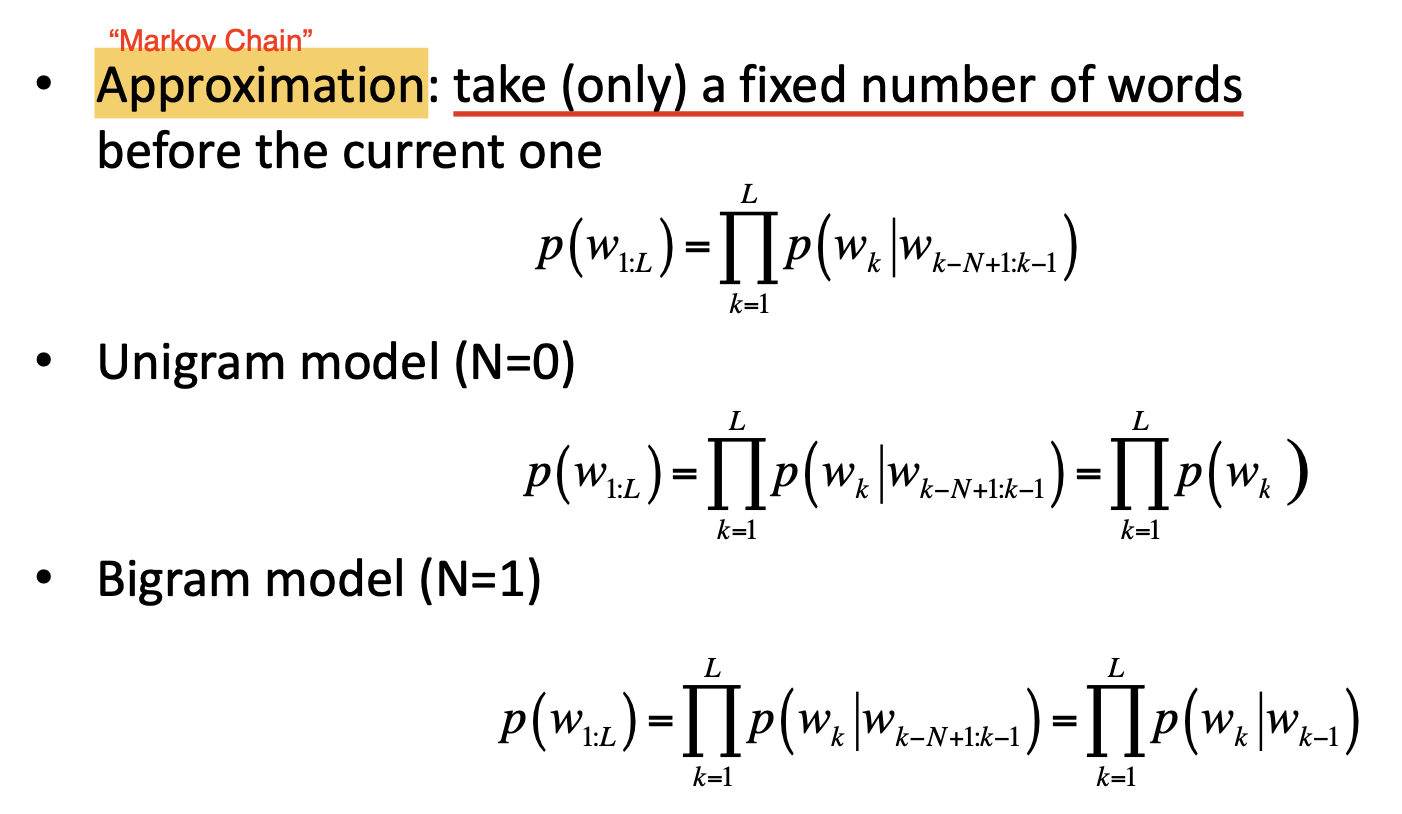
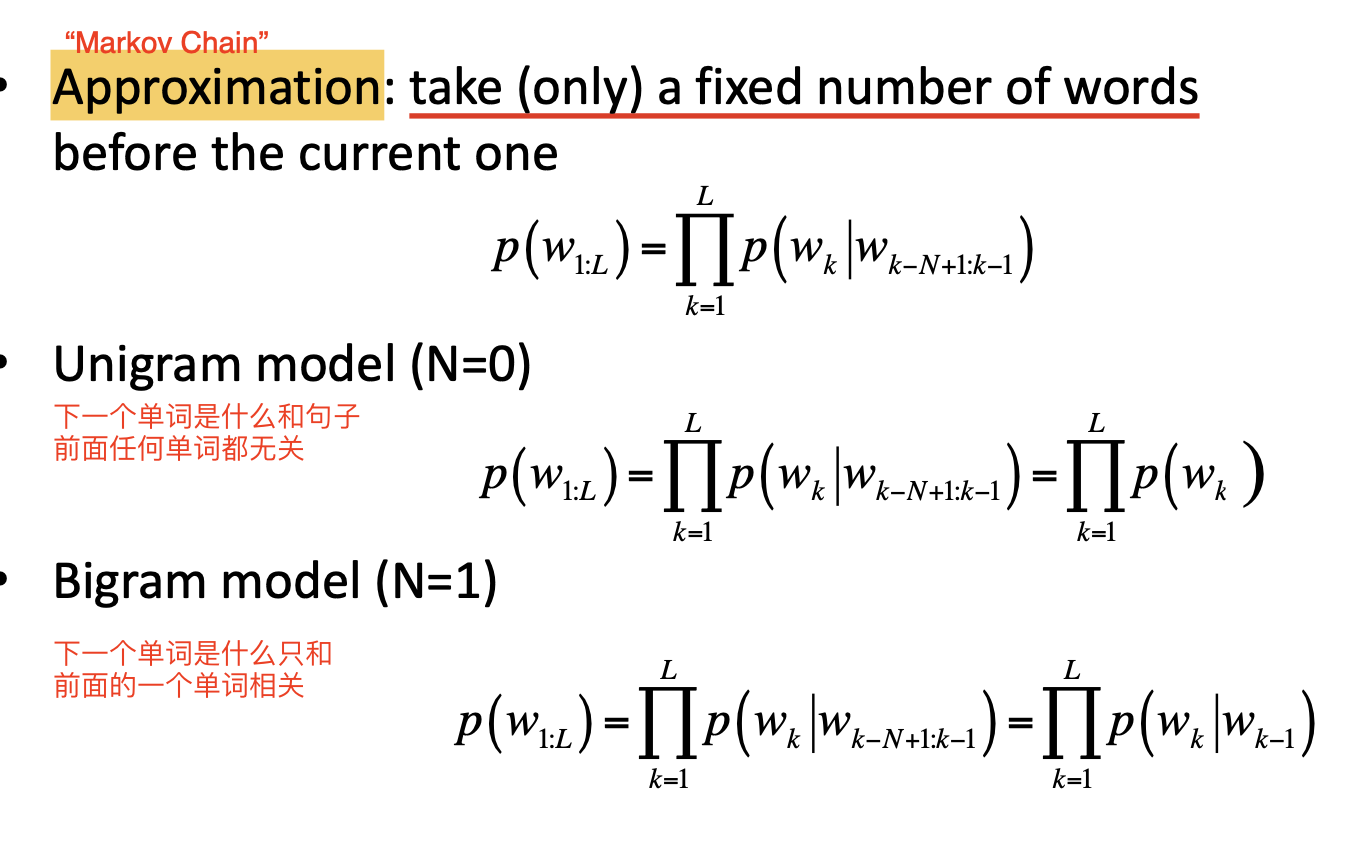
chore: updated `20221009154656.png`

diff --git a/_posts/2022-10-08-Ch1 COMP34711.md b/_posts/2022-10-08-Ch1 COMP34711.md
@@ -1,0 +1,213 @@
+---
+layout:     post
+title:      自然语言处理:分词, 语言模型和语言表示
+subtitle:   Tokenisation, Language Models and Representations
+date:       2022-10-08
+author:     R1NG
+header-img: img/post-bg-comp37111.jpg
+description: 本章讨论分词, 主流的语言模型和语言表示问题.
+catalog: true
+tags:
+    - 课程笔记
+    - 自然语言处理
+---
+
+# 分词, 语言模型和语言表示
+
+本章将讨论分词问题, 介绍数种主流的语言模型并讨论语言表示问题.
+
+## 1. 分词
+
+**分词** (`Tokenisation`) 是文本数据进入到模型进行计算前必须经过的步骤, 其主要目标是将文字输入 **拆分为最基本的组成元素**: 字词 (`Tokens`). 
+
+最简单的分词策略是将文本数据 **基于空格或其他标点符号** 进行拆分, 但这样的方法一般情况下都是不准确的. 分词策略的选择和构造取决于 **被拆分的文本数据所属的语言类型** 和 **文本数据本身所包含的内容主题**.
+
+举例而言: 中文 **不使用空格分离字词**, 而日文数据中一句话里可能夹杂平假名, 片假名, 汉字和罗马字符; 以阿拉伯语和希伯来语为代表的一些语言遵循 **自右向左** 的阅读顺序, 但阿拉伯数字的阅读顺序却又始终是 **自左向右**.
+
+![20221008212157](https://cdn.jsdelivr.net/gh/KirisameR/KirisameR.github.io/img/blogpost_images/20221008212157.png)
+
+![20221008212206](https://cdn.jsdelivr.net/gh/KirisameR/KirisameR.github.io/img/blogpost_images/20221008212206.png)
+
+同时, 一些 **具有特殊含义的词** 往往包含连接号 `-` 或空格 ` `, 此时若使用最基本的分词策略就会出现明显的问题.
+
+![20221008212215](https://cdn.jsdelivr.net/gh/KirisameR/KirisameR.github.io/img/blogpost_images/20221008212215.png)
+
+此外, 如何进行分词在一些情况下还是 **主观的**, 并无明确的标准. 如下图的例子所示, 若要对 `900g/21lb` 进行分词, 就可能出现多种不同的分法, 而这数种不同的分法都有一定的合理性.
+
+![20221008212253](https://cdn.jsdelivr.net/gh/KirisameR/KirisameR.github.io/img/blogpost_images/20221008212253.png)
+
+因此, 分词在实际应用中是一个非常复杂的问题. 一般地, 分词包含下列的四个步骤:
+
+![20221008212756](https://cdn.jsdelivr.net/gh/KirisameR/KirisameR.github.io/img/blogpost_images/20221008212756.png)
+
+下面以英文为例简要解释这四个步骤. 
+
+### 1.1 初始分词
+
+在英语中, 绝大多数的字词都被 **空格和标点符号** (`Word and Punctuation`) 所 **划分和界定** (`delimit`). 因此, 可通过下列的两个步骤划分出 **字词的粗略边界**:
+
+![20221008213427](https://cdn.jsdelivr.net/gh/KirisameR/KirisameR.github.io/img/blogpost_images/20221008213427.png)
+
+这一步可以生成相对不错的单词划分, 但它可能存在 **过分割 `Over-Segmentation`** 和 **欠分割 `Under-Segmentation`** 问题:
+
+![20221008213616](https://cdn.jsdelivr.net/gh/KirisameR/KirisameR.github.io/img/blogpost_images/20221008213616.png)
+
+因此我们需要执行后续的三个步骤以对初始分划的结果进行 **细化或修正**. 
+
+### 1.2 处理缩写和省略撇号
+
+第二步的主要工作是:
+
+1. 处理 **缩写** (`Abbreviation`) 导致的潜在分划错误:
+   
+    一般地, 在 **缩写** 的内部出现的句号 (`period`) 应该被认为 **属于该缩写的一部分**, 因此需要和这个缩写一起被划分为 **一个单独的字词**.
+
+    ![20221008214024](https://cdn.jsdelivr.net/gh/KirisameR/KirisameR.github.io/img/blogpost_images/20221008214024.png)
+
+   一般地, 连接在单词末尾的句号表示 **该句子的末尾**, 因此需要被划分为一个单独的字词. 但若某个句子的结尾是一个缩写词, 此时末尾的句号就同时包含了 **表示缩写** 和 **表示句子结尾** 的双重含义. 在处理一些特定语料时, 可能需要 **强行将这个句号从缩写字词中拆分** 或 **强行将这个句号包含到缩写字词中**, 因此需要这一步检查. 
+
+   此外, 包括 **逗号** (`Comma`), **分号** (`semi-column`), **引号** (`quotation mark`) 等标点符号都应该被视为 **单独的字词**.
+
+2. 处理省略引号因歧义性导致的潜在分划错误:
+
+    引号存在 **歧义性**, 因其根据语境不同可以解释为 **引用标记** (`Quotation Marks`), **所属格符号** (`Genitive Marker`) 和 **后附着语素/重读词后词** (`Enclitic`):
+
+    ![20221008214857](https://cdn.jsdelivr.net/gh/KirisameR/KirisameR.github.io/img/blogpost_images/20221008214857.png)
+
+    ![20221008214906](https://cdn.jsdelivr.net/gh/KirisameR/KirisameR.github.io/img/blogpost_images/20221008214906.png)
+
+### 1.3 处理连接号
+
+连接号的含义也存在 **歧义性**: 它可能在被分行的文本材料中表示句子在上下两行之间的连接, 也可能是某个 **合成词** (`Compound Word`) 中不可分割的一部分. 因此我们需要对分词结果进行进一步检测以修正由于连接号的歧义性所导致的潜在分划错误.
+
+![20221008215222](https://cdn.jsdelivr.net/gh/KirisameR/KirisameR.github.io/img/blogpost_images/20221008215222.png)
+
+![20221008215342](https://cdn.jsdelivr.net/gh/KirisameR/KirisameR.github.io/img/blogpost_images/20221008215342.png)
+
+### 1.4 处理其他难以归类的特殊表示
+
+最后, 我们需要处理文本数据中可能存在的, **难以归类的特殊表示**, 如下图所示:
+
+![20221008215430](https://cdn.jsdelivr.net/gh/KirisameR/KirisameR.github.io/img/blogpost_images/20221008215430.png)
+
+需要处理哪些特殊表示, 数字和日期等特殊表示应该如何分划, 都需要基于具体的文本数据而定.
+
+### 1.5 对分词和相关问题的总结与讨论
+
+最后总结: 在分词这一步中, 实际上 **不存在唯一正确的规则**, 任何与对应的自然语言处理系统 **一致** 的分词规则就是理论上合适的规则.
+
+需要注意: 分词遵从的 **基本原则** 是: **从完全未被划分的初始语料出发**, 基于 **一系列规定好的划分规则** 将语料一步步地划分, 从而 **避免过划分的问题出现**. 
+
+分词是 **文本预处理** (`Text pre-processing`) 的重要一步. 文本预处理还包括 **文本文件级别的预处理** 和 **词汇级别的预处理**, 分词是承上启下的一步.
+
+![20221008220227](https://cdn.jsdelivr.net/gh/KirisameR/KirisameR.github.io/img/blogpost_images/20221008220227.png)
+
+此外, **大小写折叠** (`Case Folding`) 也是一个受 **歧义性困扰** 的问题. 由于有大量的 **著名名词** (`Popular Noun`) 是由首字母大写的普通名词拼合而成的, 因此如果将所有单词全部转成小写就会导致信息丢失. 
+
+![20221008220815](https://cdn.jsdelivr.net/gh/KirisameR/KirisameR.github.io/img/blogpost_images/20221008220815.png)
+
+一种方法是: **仅将句子开头的首字母改为小写形式**. 这也被称为 `truecasing`. 更合适的解决方案还是基于机器学习构造自动大小写折叠模型.
+
+![20221008220758](https://cdn.jsdelivr.net/gh/KirisameR/KirisameR.github.io/img/blogpost_images/20221008220758.png)
+
+## 2. 语言模型和语言表示
+
+我们接下来介绍数种主流的语言模型和语言表示.
+
+考虑一个最简单的语言相关问题: **完形填空**. 从未接触过文章中所描述内容的学生也能正确填出留空的单词, 其背后是基于 **足够多的语料阅读** 所积累的 **语感**. 相应地, 比起完全形式化的, 基于 **语法** 所构造的复杂语言模型, 我们基于从现实中收集的大量语料数据为语言进行 **统计学意义上的建模**. 我们用 **概率数值** 表示给定语料 **可能在现实中出现** 的概率, 自然而然, 更 **符合人类理解常规**, **运用更自然** 的语料被分配的概率值就更大. 
+
+形式上说, 所谓的 **语言模型** (`Language Model`) 就是这样一个以 **任意语料** 为输入, 以某个解释为 **概率** 的, 位于 $0$ 到 $1$ 之间的数值为输出的 **函数**.
+
+![20221008223648](https://cdn.jsdelivr.net/gh/KirisameR/KirisameR.github.io/img/blogpost_images/20221008223648.png)
+
+所谓 **模型**, 就是对某个现实事物的 **抽象**, **简化** 的表述. 对 **语言模型** 而言, 自然就存在这个问题: **应该如何表示语料数据**?
+
+### 2.1 词袋表示 (`BoW Representation`)
+
+词袋表示 (`BoW Representation`) 是最简单的语言表示方法, 它将含有顺序和符号的语料简化为一系列字词, 将其装进 **包含重复元素的集合**: “词袋” (`Bag of words`) 中. 
+
+![20221008224311](https://cdn.jsdelivr.net/gh/KirisameR/KirisameR.github.io/img/blogpost_images/20221008224311.png)
+
+词袋模型非常简单, 以至于语料在转换为词袋表示的过程中会不可避免地损失信息, 如 **单词之间的顺序会完全丢失**, **转换后无法区分单词的相对重要性** 等, 词袋模型也 **不适用于所有的语言**, 但从计算的角度看它非常 **高效**.
+
+![20221008224535](https://cdn.jsdelivr.net/gh/KirisameR/KirisameR.github.io/img/blogpost_images/20221008224535.png)
+
+一般地, 在将语料转换为词袋时我们需要定义 **停用词** (`Stop Words`) 以 **提升文本特征的质量**, 停用词一般无法提供有价值的信息, 因此可以忽略.
+
+在人们的日常语言交流中, 一些词语相比其他词语承载了更重要的信息, 还有一些词语的使用频率明显高于其他的词. 关于这个发现, 有 **齐夫定律** (`Zipf's Law`): 
+
+![20221008224933](https://cdn.jsdelivr.net/gh/KirisameR/KirisameR.github.io/img/blogpost_images/20221008224933.png)
+
+![20221008224954](https://cdn.jsdelivr.net/gh/KirisameR/KirisameR.github.io/img/blogpost_images/20221008224954.png)
+
+以及 **卢恩假设** (`Luhn's hypothesis`):
+
+![20221008225459](https://cdn.jsdelivr.net/gh/KirisameR/KirisameR.github.io/img/blogpost_images/20221008225459.png)
+
+我们称这种 **出现频率高**, 但 **信息价值低** 的词为 **停用词**. 
+
+![20221008225701](https://cdn.jsdelivr.net/gh/KirisameR/KirisameR.github.io/img/blogpost_images/20221008225701.png)
+
+### 2.2 向量表示 (`Vector Representation`)
+
+向量表示是一种 **对词袋模型的实现**. 我们称 **词汇组 $V$** 为经过文本预处理后得到的所有项 (`terms`) 组成的集合, 而每个文本语料 (`document`) 都可表示为一个 $\vert V \vert$ 维的向量:
+
+![20221008225944](https://cdn.jsdelivr.net/gh/KirisameR/KirisameR.github.io/img/blogpost_images/20221008225944.png)
+
+可见, 这样的表示是 **高维** 且 **稀疏** 的: 向量维度取决于词汇组中词汇的数量, 而并非所有的单词都会在某个句子中出现, 因此可能向量中大多数的项都是 $0$. 可见, 设定合适的停用词表可以适当地起到 **降维** 的作用.
+
+向量表示中, 向量的每一个维度存储的值都是对应的词项 (`term`) 在这个向量表示的句子中的 **发生率** (`incidence`), 取值在 $(0, 1)$ 之间. $0$ 表示不出现, $1$ 表示该词在句子中出现.
+
+![20221008230305](https://cdn.jsdelivr.net/gh/KirisameR/KirisameR.github.io/img/blogpost_images/20221008230305.png)
+
+在接触了上述的 **二元权重** 后, 我们不难联想, 理论上也可以将 **单词在句子中的出现次数** 作为权重. 但 **单词的重要性并不和它在句子中出现的次数成正比**, 因此这样设置会导致下列的问题:
+
+![20221008230643](https://cdn.jsdelivr.net/gh/KirisameR/KirisameR.github.io/img/blogpost_images/20221008230643.png)
+
+在下一章的内容中, 我们将讨论更复杂, 但更能反映单词真实重要性的权重定义方式.
+
+总的来说, 向量表示仍然是 **非常稀疏** 的. 我们将在下一章中介绍 **更致密的表示模型**: `word embedding`.
+
+在考虑 `BoW` 模型时, 放到 “词袋” 中的除了可以是 **单独的单词** 外,自然还可以是 `n-gram`. 回顾此前所提到的定义, `n-gram` 是语料中 **连续的 $n$ 个单词**.
+
+![20221009104613](https://cdn.jsdelivr.net/gh/KirisameR/KirisameR.github.io/img/blogpost_images/20221009104613.png)
+
+除了使用词袋模型表示语料数据外, 我们还可以考虑 **概率语言模型** (`Probabilistic Language Models`):
+
+### 2.3 概率语言模型
+
+不难看出, 在人们使用语言的过程中, **包含大量的不确定性**. 我们可以使用 **概率语言模型** 描述和利用这种不确定性.
+
+![20221009105115](https://cdn.jsdelivr.net/gh/KirisameR/KirisameR.github.io/img/blogpost_images/20221009105115.png)
+
+#### 2.3.1 一元语言模型 (`Unigram Language Model`)
+
+一元语言模型的基本假设是: 将表示为 **一系列单词组成的序列** 的语料 $S = w_1 w_2 \cdots w_n$ 视为一系列 **彼此独立的 `Unigram`** 组成的序列. 因此有:
+
+![20221009105336](https://cdn.jsdelivr.net/gh/KirisameR/KirisameR.github.io/img/blogpost_images/20221009105336.png)
+
+一元语言模型同样没有将 **单词出现的顺序** 考虑在内, 而是假设不同单词在句子中出现的顺序彼此无关, 因此它也是一种非常简单的概率语言模型. 虽然这样建模并不符合实际, 但在大多数情况下它同样具有足够良好的性能.
+
+要计算单词出现的概率, 只需计算语料库中这个单词出现的 **频率**.
+
+![20221009110723](https://cdn.jsdelivr.net/gh/KirisameR/KirisameR.github.io/img/blogpost_images/20221009110723.png)‘
+
+语料库包含的信息总是有限的, 因此需要考虑 **如何处理从未在语料库中出现过的字词** 的情况. 由于我们对单词出现的概率的计算是基于它在语料库中包含的频率的, 因此我们可以通过 **在算式的分子和分母上同时加上一个常数** 的方式 **将计算出的概率平滑**.
+
+![20221009153407](https://cdn.jsdelivr.net/gh/KirisameR/KirisameR.github.io/img/blogpost_images/20221009153407.png)
+
+#### 2.3.2 多元语言模型 (`N-gram Model`)
+
+为了解决一元语言模型中无法准确建模 **字词顺序** 的问题, 我们需要引入 **链式法则** (`Chain Rule`).
+
+下面我们关心的是: 如何计算 **一系列单词按照给定顺序出现的概率**. 最朴素的思想是: 给定一系列单词 $w_1, \cdots, w_n$, 分别计算条件概率: $w_1$ 在句子开头出现的概率, $w_2$ 在 **$w_1$已经出现在句子开头的前提下, 是句子中第二个单词的概率** ,等等. 也就是:
+
+![20221009154227](https://cdn.jsdelivr.net/gh/KirisameR/KirisameR.github.io/img/blogpost_images/20221009154227.png)
+
+但显然基于大小有限的语料库, 我们一方面不可能得到所有这些准确的条件概率值, 另一方面对这种考虑所有情况的条件概率的计算也很复杂, 因此我们需要对链式法则进行 **简化**.
+
+为了简化链式法则, 我们下面引入 **马尔可夫链** 的概念. **马尔可夫链** 描述的是 **从某个状态到另一个装态转换的随机过程**, 基本假设是: **下一个状态的概率分布只由当前状态决定**, 在 **时间序列中** 它前面的事件都和决定下一个状态 **无关**. 自然, 我们可以将文本或句子的生成视为一个 **马尔可夫过程**, 并给出 “句子中下一个单词是什么只取决于此前的一个或有限多个单词” 这一假设. 因此就有:
+
+![20221009154656](https://cdn.jsdelivr.net/gh/KirisameR/KirisameR.github.io/img/blogpost_images/20221009154656.png)
+
+可知: 
